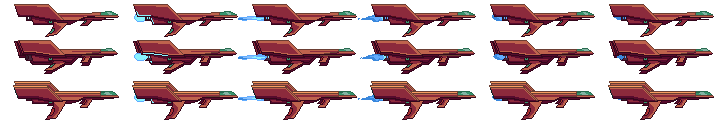
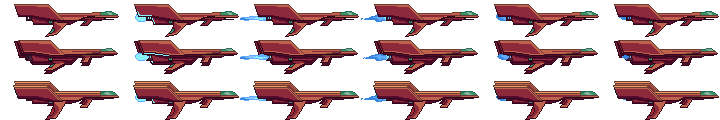
colisoes com os boss, tiro bossfinal ,corrigido sprite nave vermelha, corrigidos algumas outras ccoisas

diff --git a/src/game/BossFinal.java b/src/game/BossFinal.java
@@ -1,25 +1,71 @@
 package game;
 
+import java.awt.Graphics2D;
+import java.util.Random;
+
 import br.senai.sc.engine.Utils;
 
 public class BossFinal extends SuperInimigo {
 	private int dano;
+	private BossTiroMega[] superTiro;
+	private boolean isAtirando;
 
 	public BossFinal() {
 		super(1024, 300, 360, 128, "images/boss2png.png", 7, 6, 0, 0, 0, 0, 12000);
-
+		superTiro = new BossTiroMega[2];
 	}
 
-	public void update() {
+	public void update(TiroCanhao[] tiroCanhao, TiroArmaLaser tiroLaser, SuperTiro[] tiros, Nave nave) {
 		if (getPosX() + getWidth() >= Utils.getInstance().getWidth()) {
 			setPosX(getPosX() - getVelX());
 		}
 		setPosY(getPosY() + getVelY());
-		if (getPosY() <= 0) {
+
+		if (getPosY() <= 65) {
 			setVelY(getVelY() * -1);
 		} else if (getPosY() + getHeight() >= Utils.getInstance().getHeight()) {
 			setVelY(getVelY() * -1);
 		}
+		randomSuperTiro();
+		if (tiroCanhao != null) {
+			rectangleArmaCanhao(tiroCanhao);
+		}
+		if (tiroLaser != null) {
+			rectangleArmaLaser(tiroLaser);
+		}
+		if (tiros != null) {
+			rectangleTiro(tiros);
+		}
+		rectangleNave(nave);
+	}
+
+	public void megaTiro(Graphics2D g, TiroCanhao[] tiroCanhao, TiroArmaLaser tiroLaser, SuperTiro[] tiros, Nave nave) {
+		for (int i = 0; i < superTiro.length; i++) {
+			if (superTiro[i] == null) {
+				superTiro[i] = new BossTiroMega(this);
+				superTiro[0].setPosX(200);
+			}
+			if (tiroCanhao != null) {
+				rectangleArmaCanhao(tiroCanhao);
+			}
+			if (tiroLaser != null) {
+				rectangleArmaLaser(tiroLaser);
+			}
+			if (tiros != null) {
+				rectangleTiro(tiros);
+			}
+			rectangleNave(nave);
+		}
+
+		superTiro[0].update();
+		superTiro[1].draw(g);
+		if (superTiro[0].getPosX() <= 0) {
+			for (int i = 0; i < superTiro.length; i++) {
+				superTiro[i] = null;
+			}
+			isAtirando = false;
+		}
+
 	}
 
 	public int getDano() {
@@ -28,6 +74,29 @@ public class BossFinal extends SuperInimigo {
 
 	public void setDano(int dano) {
 		this.dano = dano;
+	}
+
+	public void randomSuperTiro() {
+		Random rdm = new Random();
+		if (rdm.nextInt(200) == 12) {
+			isAtirando = true;
+		}
+	}
+
+	public BossTiroMega[] getSuperTiro() {
+		return superTiro;
+	}
+
+	public void setSuperTiro(BossTiroMega[] superTiro) {
+		this.superTiro = superTiro;
+	}
+
+	public boolean isAtirando() {
+		return isAtirando;
+	}
+
+	public void setAtirando(boolean isAtirando) {
+		this.isAtirando = isAtirando;
 	}
 
 }

diff --git a/src/game/BossTerrestre.java b/src/game/BossTerrestre.java
@@ -4,20 +4,39 @@ import br.senai.sc.engine.Utils;
 
 public class BossTerrestre extends SuperInimigo {
 	private int dano;
+	private boolean frente;
 
 	public BossTerrestre() {
-		super(1024, Utils.getInstance().getHeight() - 121, 217, 101, "images/Boss1.png", 15, 15, 0, 0, 4, 1, 0);
+		super(1024, Utils.getInstance().getHeight() - 121, 217, 101, "images/Boss1.png", 15, 15, 0, 0, 4, 1, 7000);
 	}
 
-	public void update() {
-		if (getPosX() >= 400) {
-			setPosX(getPosX() - getVelX());
+	public void update(TiroCanhao[] tiroCanhao, TiroArmaLaser tiroLaser, SuperTiro[] tiros, Nave nave) {
+		if (getPosX() >= 0 && frente == false) {
+			setPosX(getPosX() - getVelX()/2);
+			if (getPosX() <= 0) {
+				frente = true;
+			}
+		} else if (frente == true) {
+			setPosX(getPosX() + getVelX() * 2);
+			if (getPosX() + getWidth() >= Utils.getInstance().getWidth()) {
+				frente = false;
+			}
 
 		}
 		setFrameX(getFrameX() + 1);
 		if (getFrameX() >= 4) {
 			setFrameX(0);
 		}
+		if (tiroCanhao != null) {
+			rectangleArmaCanhao(tiroCanhao);
+		}
+		if (tiroLaser != null) {
+			rectangleArmaLaser(tiroLaser);
+		}
+		if (tiros != null) {
+			rectangleTiro(tiros);
+		}
+		rectangleNave(nave);
 	}
 
 	public int getDano() {
@@ -26,6 +45,14 @@ public class BossTerrestre extends SuperInimigo {
 
 	public void setDano(int dano) {
 		this.dano = dano;
+	}
+
+	public boolean isFrente() {
+		return frente;
+	}
+
+	public void setFrente(boolean frente) {
+		this.frente = frente;
 	}
 
 }

diff --git a/src/game/SelecaoNave.java b/src/game/SelecaoNave.java
@@ -22,10 +22,10 @@ public class SelecaoNave extends TelaEstatica {
 				"images/Proximo.png");
 		getBotoes()[2] = new Botao(Utils.getInstance().getWidth() - 350, Utils.getInstance().getHeight() - 100, 293,
 				107, "images/Start.png");
-naves = new Image[3];
-naves[0]=Utils.getInstance().loadImage("images/Flak1.png");
-naves[1]=Utils.getInstance().loadImage("images/Flak2.png");
-naves[2]=Utils.getInstance().loadImage("images/Flak3.png");
+		naves = new Image[3];
+		naves[0] = Utils.getInstance().loadImage("images/Flak1.png");
+		naves[1] = Utils.getInstance().loadImage("images/Flak2.png");
+		naves[2] = Utils.getInstance().loadImage("images/Flak3.png");
 	}
 
 	public int getEscolhaSuaNave() {
@@ -43,12 +43,12 @@ naves[2]=Utils.getInstance().loadImage("images/Flak3.png");
 			escolhaSuaNave = 0;
 		}
 		if (escolhaSuaNave == 0) {
-			g.drawImage(naves[0], 412, 400, 200,50, null);
+			g.drawImage(naves[0], 362, 450, 300, 75, null);
 
 		} else if (escolhaSuaNave == 1) {
-			g.drawImage(naves[1], 412, 400, 200,50, null);
+			g.drawImage(naves[1], 362, 450, 300, 75, null);
 		} else if (escolhaSuaNave == 2) {
-			g.drawImage(naves[2], 412, 400, 200,50, null);
+			g.drawImage(naves[2], 362, 450, 300, 75, null);
 		}
 
 	}

diff --git a/src/game/RetterPrincipal.java b/src/game/RetterPrincipal.java
@@ -352,7 +352,7 @@ public class RetterPrincipal extends Game {
 			}
 			if (boss1 != null && esquadraoTres == null) {
 				boss1.draw(getGraphics2D());
-				boss1.update();
+				boss1.update(nave.getTiroCanhao(), nave.getTiroArmaLaser(), nave.getTiros(), nave);
 				if (boss1.getHp() <= 0) {
 					boss1 = null;
 				}
@@ -383,7 +383,19 @@ public class RetterPrincipal extends Game {
 			}
 			if (boss2 != null && esquadraoSeis == null) {
 				boss2.draw(getGraphics2D());
-				boss2.update();
+
+				if (boss2.isAtirando()) {
+					boss2.megaTiro(getGraphics2D(), nave.getTiroCanhao(), nave.getTiroArmaLaser(), nave.getTiros(),
+							nave);
+					if (boss2.getHp() <= 0) {
+						boss2 = null;
+					}
+				} else {
+					boss2.update(nave.getTiroCanhao(), nave.getTiroArmaLaser(), nave.getTiros(), nave);
+					if (boss2.getHp() <= 0) {
+						boss2 = null;
+					}
+				}
 			}
 			desenharImagem(botao, Utils.getInstance().getWidth() / 2, Utils.getInstance().getHeight() / 2 + 200);
 			// DESENHO DA NAVE

diff --git a/src/game/MiddleGround.java b/src/game/MiddleGround.java
@@ -5,16 +5,13 @@ import br.senai.sc.engine.Utils;
 public class MiddleGround extends ObjetoGraficoMovelComAnimacao {
 
 	public MiddleGround(int posX) {
-		super(posX, 640, 64, 128, "images/SonicBackground (1).png", 10, 0, 0, 0, 0, 0);
+		super(posX, -27, 1025, 768, "images/meiopredios.png", 10, 0, 0, 0, 0, 0);
 
 	}
 
 	public void update() {
 		setPosX(getPosX() - getVelX());
-		setFrameX(getFrameX() + 1);
-		if (getFrameX() >= 4) {
-			setFrameX(0);
-		}
+
 	}
 
 	public void fimDaTela() {

diff --git a/src/game/BossTiroMega.java b/src/game/BossTiroMega.java
@@ -1,0 +1,14 @@
+package game;
+
+public class BossTiroMega extends SuperTiro {
+
+	public BossTiroMega(BossFinal boss) {
+		super(0, 0, 1530, 21, "images/TiroBossMega.png",7, 0, 300, 10000);
+		setPosX(-790);
+		setPosY(boss.getPosY() + 5);
+	}
+
+	public void update() {
+		setPosX(getPosX() - getVelX());
+	}
+}

diff --git a/src/game/BackGround.java b/src/game/BackGround.java
@@ -5,7 +5,7 @@ import br.senai.sc.engine.Utils;
 public class BackGround extends ObjetoGraficoMovel {
 
 	public BackGround(int posX) {
-		super(posX, 0, 1024, 768, "Images/imagemTeste (2).jpg", 7, 0);
+		super(posX, 0, 1024, 768, "Images/FundoRetter.png", 7, 0);
 
 	}
 
